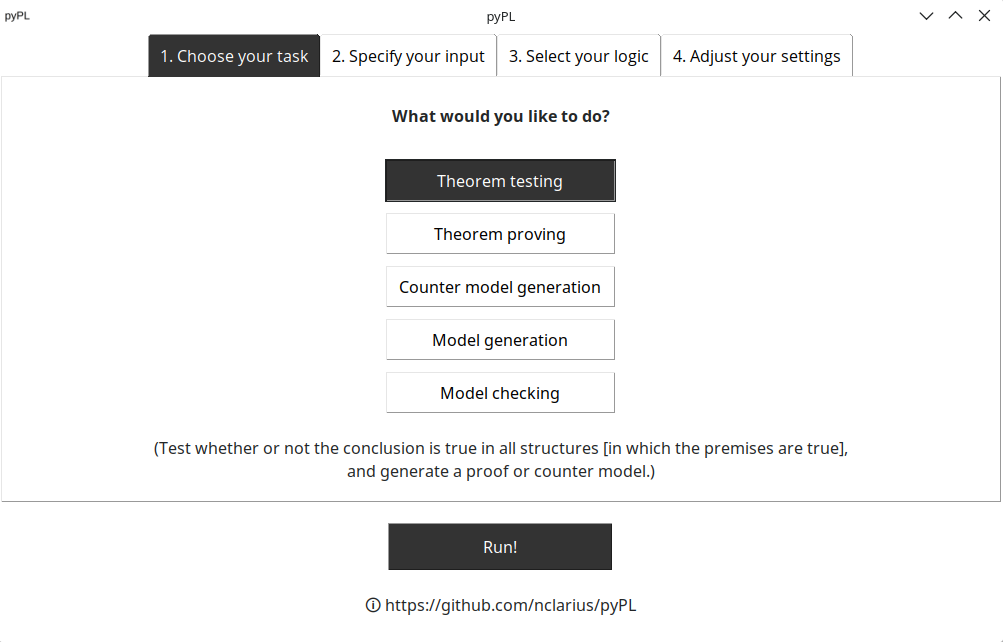
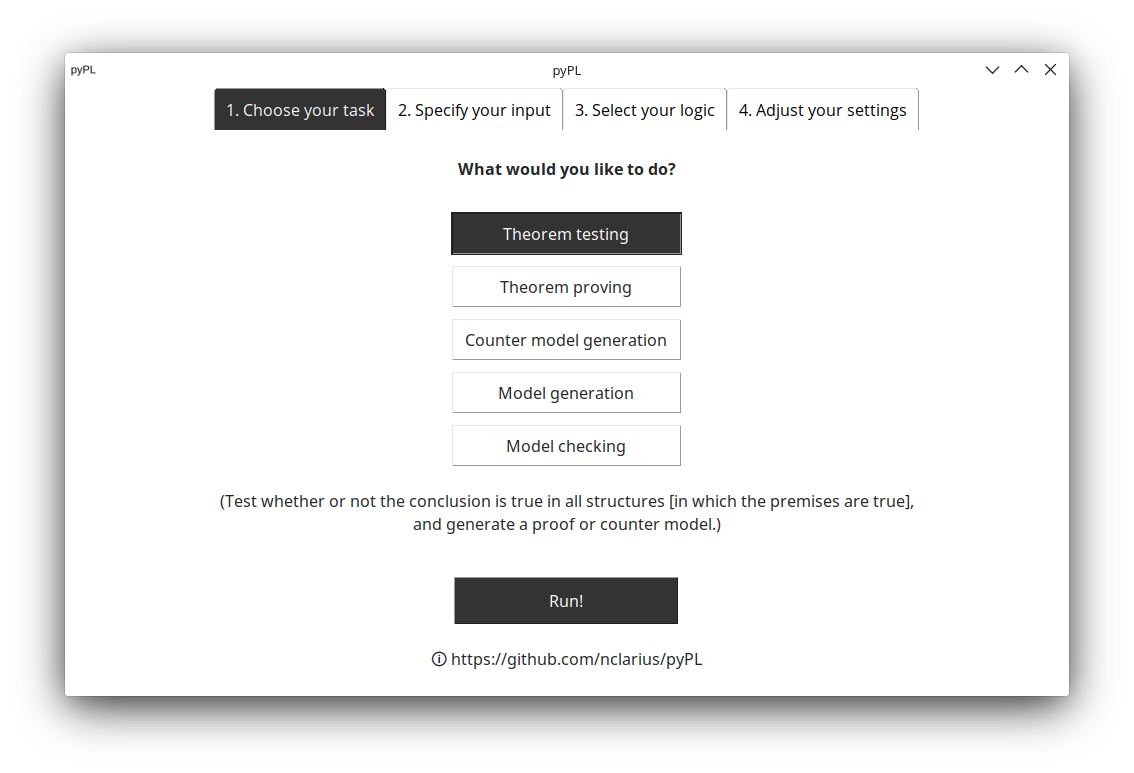
doc

Changed region(s): [[0.0309, 0.0312, 0.989, 0.9657], [0.989, 0.9969, 1.0, 1.0], [0.0, 0.0, 0.0309, 0.0312]]

diff --git a/gui.py b/gui.py
@@ -91,7 +91,7 @@ class PyPLGUI(tk.Frame):
                        # font=[("selected", ("OpenSans", "12", "bold"))]
                        )  # todo no rounded corners for tabs
         self.style.theme_settings("default", {
-                                  "TNotebook": {"configure": {"tabposition": "n"}},
+                                  "TNotebook": {"configure": {"tabposition": "n", "borderwidth": 0}},
                                   "TNotebook.Tab": {"configure": {"padding": [10, 7.5]}}})
         self.root.configure(bg=white)
         self.root.option_add("*Font", "NotoSans 12")

diff --git a/README.md b/README.md
@@ -7,7 +7,7 @@ This tool can compute
 
 ![pyPL GUI -- start](doc/img/pyPL_1.png)
 ![pyPL GUI -- input](doc/img/pyPL_2.png)
-![pyPL GUI -- output](doc/img/pyPL_3.png)
+![pyPL GUI -- output](doc/img/pyPL_0.png)
 
 © Natalie Clarius <natalie.clarius@student.uni-tuebingen.de>  
 License: CC BY-NC-SA 4.0 (https://creativecommons.org/licenses/by-nc-sa/4.0/).
